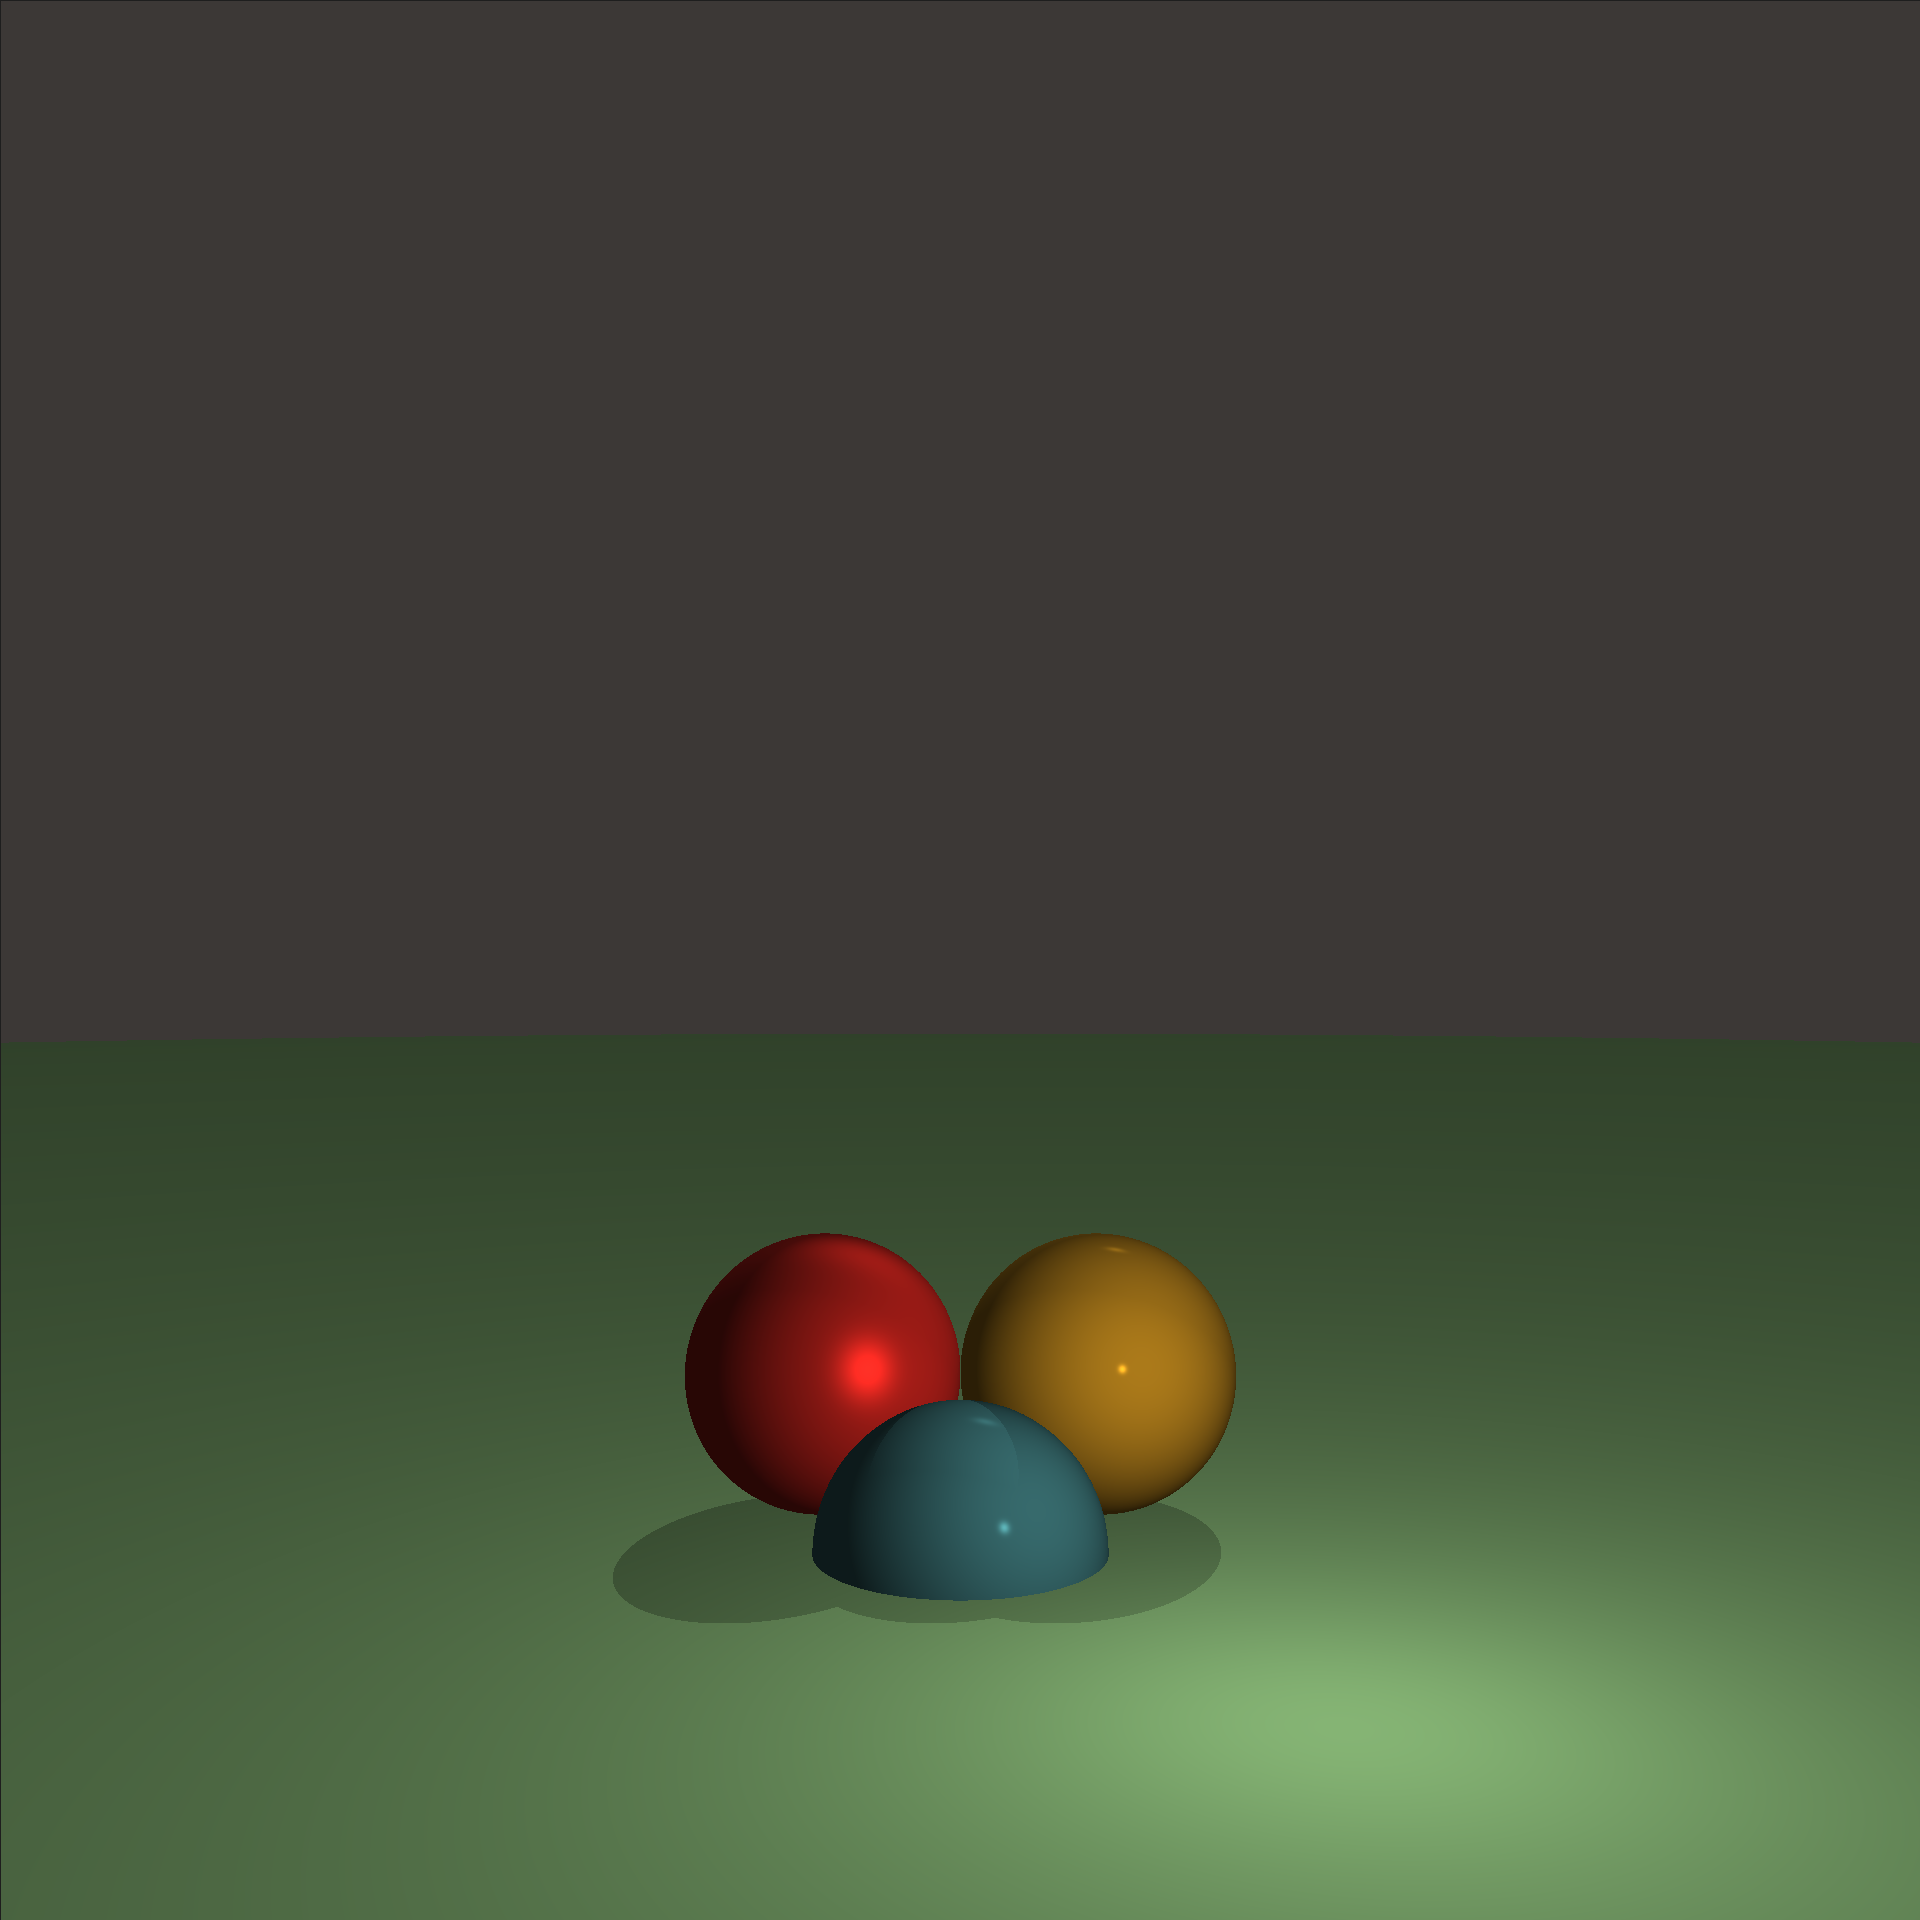
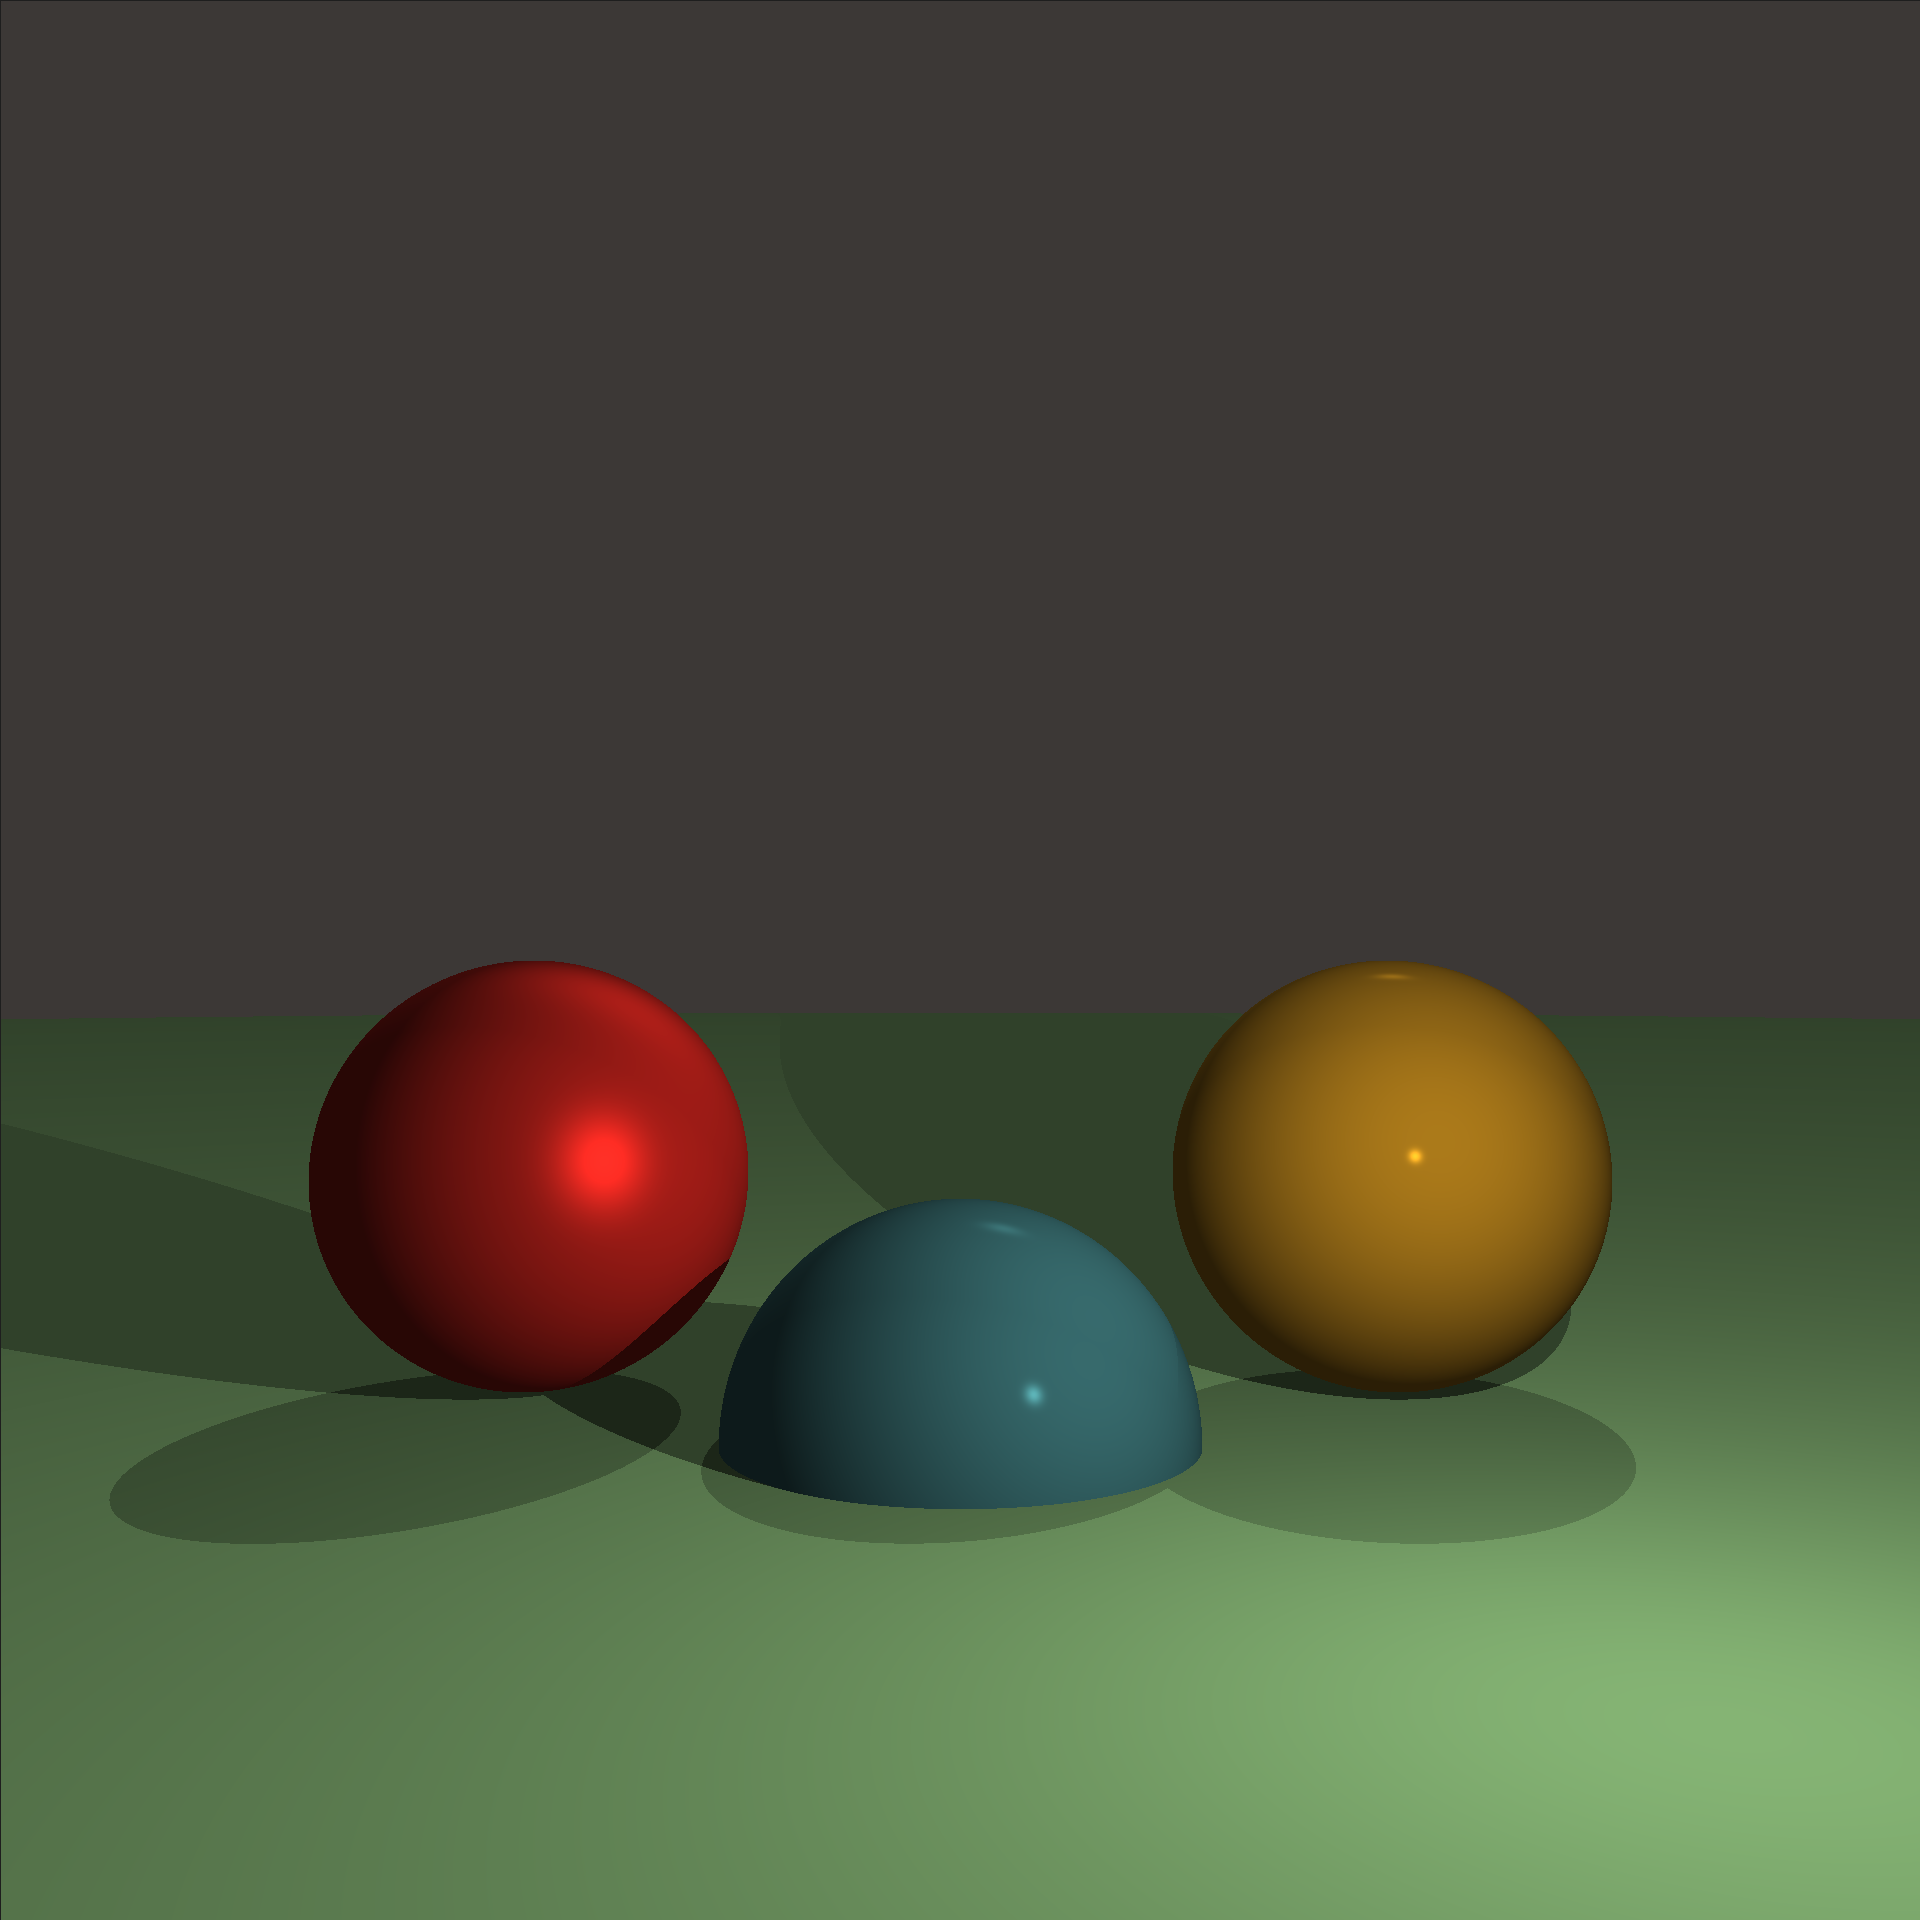
bugfix

Changed region(s): [[0.1562, 0.5, 1.0, 1.0]]

diff --git a/src/main.rs b/src/main.rs
@@ -36,13 +36,13 @@ fn main() {
                 shininess: 300f64,
             },
             Sphere {
-                center: Vector3::new(1f64, 0f64, 4f64),
+                center: Vector3::new(2f64, 0f64, 4f64),
                 color: Color::new(215, 153, 33),
                 radius: 1f64,
                 shininess: 500f64,
             },
             Sphere {
-                center: Vector3::new(-1f64, 0f64, 4f64),
+                center: Vector3::new(-2f64, 0f64, 4f64),
                 color: Color::new(204, 36, 29),
                 radius: 1f64,
                 shininess: 10f64,
@@ -66,7 +66,7 @@ fn main() {
             }),
         ],
         viewport_size: Vector2::new(1f64, 1f64),
-        camera_position: Vector3::new(0f64, 3f64, -10f64),
+        camera_position: Vector3::new(0f64, 1f64, -5f64),
         camera_orientation: Vector3::new(0f64, 0f64, 1f64),
         background_color: Color::new(60, 56, 54),
     };
@@ -216,7 +216,7 @@ fn compute_lighting(
                 let light_direction = point_light.position - point;
 
                 let intersection =
-                    closest_sphere_intersection(state, point, direction, 0.00001f64, 1f64);
+                    closest_sphere_intersection(state, point, light_direction, 0.00001f64, 1f64);
 
                 match intersection {
                     Some(_) => continue,
